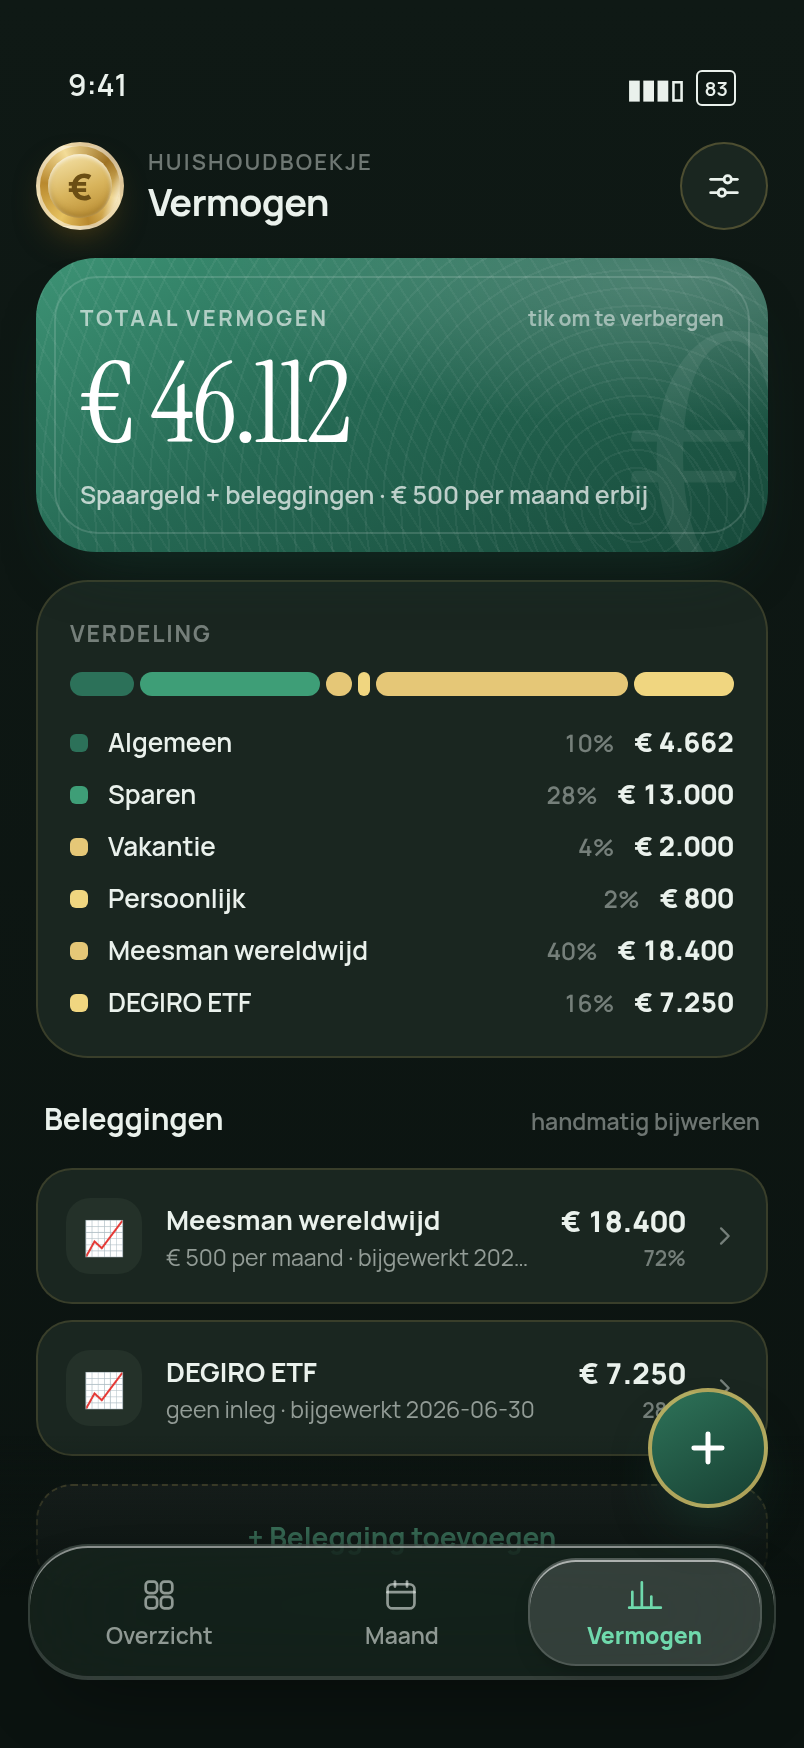
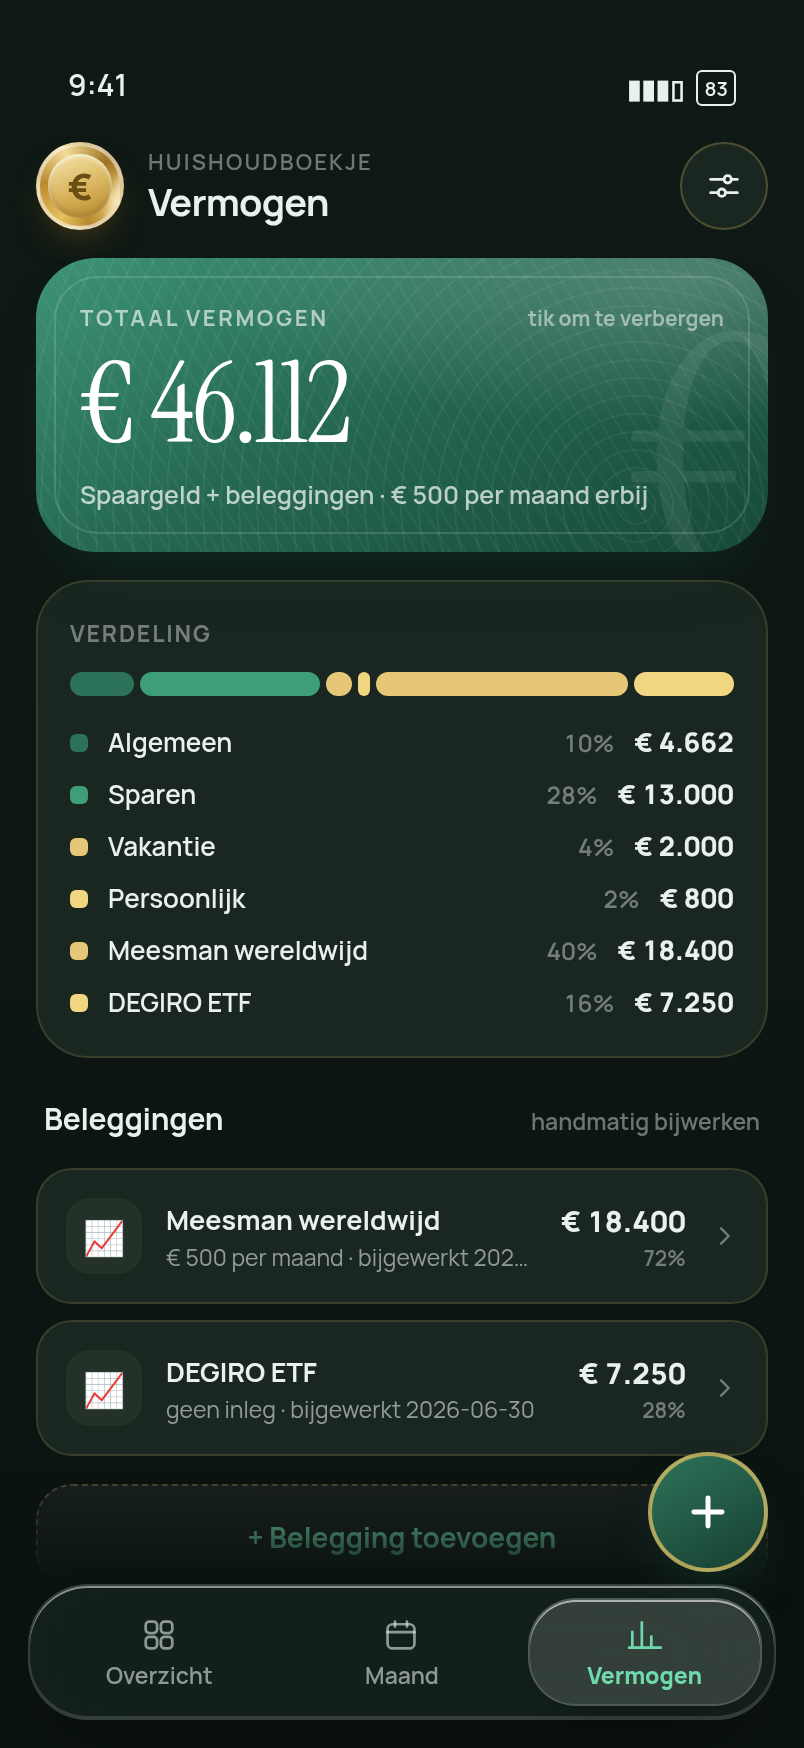
Tabbar in een dock onderaan de kolom i.p.v. position:fixed
De balk stond op iOS te hoog en bleef dat na twee marge-correcties. Oorzaak
was de constructie zelf: position:fixed met bottom uit een custom property
waarin env(safe-area-inset-bottom) zat. Die combinatie is op iOS-standalone
niet betrouwbaar. In plaats van de marge te blijven tunen is de afhankelijk-
heid nu weg:

- Nieuwe .dock als normaal (flex: none) element onderaan de app-kolom, met
  daarin de FAB, het snelmenu, de toast en de tabbar. De balk zit daarmee per
  definitie tegen de onderrand, ongeacht wat iOS over het viewport meldt.
- De veilige zone staat als max(14px, env(...)) in een gewone padding-
  declaratie op .dock — niet in een custom property, want dat is precies de
  constructie die faalde.
- FAB, snelmenu en toast zijn absoluut gepositioneerd ten opzichte van de
  dock, dus hun onderlinge afstanden kunnen niet meer uit de pas lopen.
- De aparte .fade-bottom is vervangen door .dock::before; de dock heeft zelf
  een dekkende achtergrond, dus er kan geen inhoud meer door de onderste
  strook scrollen.
- .scroll heeft geen enorme padding-bottom meer nodig (26px i.p.v. ~166px).
- #quick-scrim naar z-index 19, onder de dock, zodat het snelmenu bereikbaar
  blijft; het sheet-scrim (30) hoort er juist bovenop.

Nagemeten met nagebootste veilige zones: balk 34px van de onderrand op een
iPhone (exact de home-indicator-grens) en 14px op een toestel zonder veilige
zone. Beide testsuites groen: 76/76 interacties, geen console-fouten.

Changed region(s): [[0.0622, 0.7723, 0.9639, 0.9886], [0.0311, 0.8959, 0.0622, 0.9577]]

diff --git a/styles.css b/styles.css
@@ -59,8 +59,6 @@
      home-indicator (env), elders houdt max() een nette marge. Alles wat
      onderaan zweeft rekent hiervan af, zodat de onderlinge afstanden
      kloppen op elk toestel. */
-  --barbottom: max(14px, env(safe-area-inset-bottom));
-  --barheight: 66px;
   /* Transparante variant van --app1 voor de fade onderaan. Met `transparent`
      krijg je in sommige browsers een grijze zweem, daarom expliciet. */
   --app1-0: rgba(246, 241, 227, 0);
@@ -186,6 +184,7 @@ a:hover { color: var(--gold); }
   flex-direction: column;
   background: linear-gradient(180deg, var(--app0) 0%, var(--app1) 100%);
   padding-top: env(safe-area-inset-top);
+  overflow: hidden;
 }
 @media (min-width: 560px) {
   body { background: var(--desk); }
@@ -270,7 +269,7 @@ a:hover { color: var(--gold); }
   min-height: 0;
   overflow-y: auto;
   overflow-x: hidden;
-  padding: 2px var(--pad) calc(var(--barbottom) + var(--barheight) + 96px);
+  padding: 2px var(--pad) 26px;
   -webkit-overflow-scrolling: touch;
 }
 .view { display: flex; flex-direction: column; gap: 14px; animation: riseIn 0.32s var(--ease); }
@@ -872,20 +871,34 @@ a:hover { color: var(--gold); }
 /* ============================================================
    FAB · tabbar · snelmenu
    ============================================================ */
-/* Loopt door tot de onderrand en wordt volledig dekkend, zodat er geen
-   inhoud doorheen scrolt in de strook onder de tabbar (de veilige zone). */
-.fade-bottom {
-  position: fixed;
+/* ---------- Dock onderaan (normaal element, geen position:fixed) ---------- */
+.dock {
+  flex: none;
+  position: relative;
+  z-index: 20;
+  /* De veilige zone ís de onderrand: op iOS eindigt de balk daarmee precies
+     op de home-indicator, elders houdt max() 14px marge. env() staat hier in
+     een gewone padding-declaratie, niet in een custom property — dat laatste
+     is de constructie die op iOS onbetrouwbaar bleek. */
+  padding: 0 14px max(14px, env(safe-area-inset-bottom));
+  background: var(--app1);
+}
+/* Zachte overgang boven de dock, zodat inhoud niet hard afbreekt */
+.dock::before {
+  content: "";
+  position: absolute;
   left: 0;
   right: 0;
-  bottom: 0;
-  height: calc(var(--barbottom) + var(--barheight) + 56px);
+  bottom: 100%;
+  height: 56px;
+  background: linear-gradient(180deg, var(--app1-0), var(--app1));
   pointer-events: none;
-  background: linear-gradient(180deg, var(--app1-0) 0%, var(--app1) 52%, var(--app1) 100%);
-  z-index: 9;
 }
+
 .fab {
-  position: fixed;
+  position: absolute;
+  right: 18px;
+  bottom: calc(100% + 6px);
   width: 60px;
   height: 60px;
   border-radius: 50%;
@@ -894,28 +907,16 @@ a:hover { color: var(--gold); }
   box-shadow: 0 14px 26px -10px rgba(23, 63, 50, 0.75);
   display: grid;
   place-items: center;
-  z-index: 20;
-  bottom: calc(var(--barbottom) + var(--barheight) + 20px);
-  left: 50%;
-  transform: translateX(calc(var(--maxw) / 2 - 60px - var(--pad) + 2px));
   transition: transform 0.14s var(--ease);
 }
-@media (max-width: 520px) {
-  .fab { left: auto; right: var(--pad); transform: none; }
-}
-.fab:active { transform: scale(0.92) translateX(0); }
-@media (min-width: 521px) { .fab:active { transform: translateX(calc(var(--maxw) / 2 - 60px - var(--pad) + 2px)) scale(0.92); } }
+.fab:active { transform: scale(0.92); }
 .fab svg { display: block; }
 
 .tabbar {
-  position: fixed;
-  left: 50%;
-  transform: translateX(-50%);
-  bottom: var(--barbottom);
-  width: min(calc(var(--maxw) - 28px), calc(100vw - 28px));
+  position: relative;
+  width: auto;
   padding: 6px;
   border-radius: 30px;
-  z-index: 10;
   background: var(--glass);
   -webkit-backdrop-filter: blur(30px) saturate(200%);
   backdrop-filter: blur(30px) saturate(200%);
@@ -952,8 +953,11 @@ a:hover { color: var(--gold); }
 }
 
 .quick {
-  position: fixed;
+  position: absolute;
+  right: 18px;
+  bottom: calc(100% + 76px);
   width: 250px;
+  max-width: calc(100% - 36px);
   padding: 8px;
   border-radius: 22px;
   background: var(--sheet);
@@ -964,8 +968,6 @@ a:hover { color: var(--gold); }
   flex-direction: column;
   gap: 4px;
   z-index: 31;
-  bottom: calc(var(--barbottom) + var(--barheight) + 92px);
-  right: max(var(--pad), calc(50vw - var(--maxw) / 2 + var(--pad)));
 }
 .quick[hidden] { display: none; }
 .quick-kicker {
@@ -995,6 +997,9 @@ a:hover { color: var(--gold); }
 /* ============================================================
    Sheets
    ============================================================ */
+/* Het snelmenu leeft in de dock (z-index 20); zijn scrim moet daar dus
+   onder blijven. Het sheet-scrim (30) hoort er juist bovenop. */
+#quick-scrim { z-index: 19; }
 .scrim {
   position: fixed;
   inset: 0;
@@ -1387,12 +1392,10 @@ a:hover { color: var(--gold); }
 
 /* Toast */
 .toast {
-  position: fixed;
-  left: 0;
-  right: 0;
-  margin: 0 auto;
-  width: min(calc(var(--maxw) - 36px), calc(100vw - 36px));
-  bottom: calc(var(--barbottom) + var(--barheight) + 90px);
+  position: absolute;
+  left: 18px;
+  right: 18px;
+  bottom: calc(100% + 76px);
   z-index: 35;
   display: flex;
   align-items: center;

diff --git a/index.html b/index.html
@@ -223,14 +223,29 @@
     </section>
   </div>
 
-  <!-- ==================== FAB · tabbar ==================== -->
-  <div class="fade-bottom" aria-hidden="true"></div>
+  <!-- ==================== Dock: FAB · tabbar · toast · snelmenu ====================
+       Staat als normaal element onderaan de app-kolom, niet position:fixed.
+       Zo zit de balk altijd echt tegen de onderrand, ongeacht hoe iOS de
+       veilige zones en het viewport rapporteert. -->
+  <div class="dock">
+    <button type="button" class="fab" id="fab" aria-label="Toevoegen · houd vast voor snelinvoer">
+      <svg width="26" height="26" viewBox="0 0 24 24" fill="none" stroke="#fff" stroke-width="2.3" stroke-linecap="round" aria-hidden="true"><path d="M12 5.5v13"/><path d="M5.5 12h13"/></svg>
+    </button>
 
-  <button type="button" class="fab" id="fab" aria-label="Toevoegen · houd vast voor snelinvoer">
-    <svg width="26" height="26" viewBox="0 0 24 24" fill="none" stroke="#fff" stroke-width="2.3" stroke-linecap="round" aria-hidden="true"><path d="M12 5.5v13"/><path d="M5.5 12h13"/></svg>
-  </button>
+    <!-- Snelmenu -->
+    <div class="quick" id="quick" hidden>
+      <div class="quick-kicker">Snel toevoegen</div>
+      <div id="quick-items"></div>
+      <button type="button" class="btn" id="quick-all" style="margin-top:4px">Alle opties…</button>
+    </div>
 
-  <nav class="tabbar" aria-label="Weergave">
+    <!-- Toast -->
+    <div class="toast" id="toast" role="status" aria-live="polite" hidden>
+      <div class="toast-text" id="toast-text"></div>
+      <button type="button" id="toast-undo">Ongedaan maken</button>
+    </div>
+
+    <nav class="tabbar" aria-label="Weergave">
     <button type="button" class="tab" data-tab="overzicht" aria-current="page">
       <svg width="19" height="19" viewBox="0 0 24 24" fill="none" stroke="currentColor" stroke-width="1.7" stroke-linecap="round" stroke-linejoin="round" aria-hidden="true"><rect x="3.6" y="3.6" width="7.2" height="7.2" rx="2.2"/><rect x="13.2" y="3.6" width="7.2" height="7.2" rx="2.2"/><rect x="3.6" y="13.2" width="7.2" height="7.2" rx="2.2"/><rect x="13.2" y="13.2" width="7.2" height="7.2" rx="2.2"/></svg>
       Overzicht
@@ -243,15 +258,10 @@
       <svg width="19" height="19" viewBox="0 0 24 24" fill="none" stroke="currentColor" stroke-width="1.7" stroke-linecap="round" stroke-linejoin="round" aria-hidden="true"><path d="M4 20V10M10 20V4M16 20v-7M22 20H2"/></svg>
       Vermogen
     </button>
-  </nav>
-
-  <!-- ==================== Snelmenu ==================== -->
-  <div class="scrim" id="quick-scrim" hidden></div>
-  <div class="quick" id="quick" hidden>
-    <div class="quick-kicker">Snel toevoegen</div>
-    <div id="quick-items"></div>
-    <button type="button" class="btn" id="quick-all" style="margin-top:4px">Alle opties…</button>
+    </nav>
   </div>
+
+  <div class="scrim" id="quick-scrim" hidden></div>
 
   <!-- ==================== Sheets ==================== -->
   <div class="scrim" id="scrim" hidden></div>
@@ -470,12 +480,6 @@
         <button type="button" class="ghost" data-close>Annuleer</button>
       </div>
     </div>
-  </div>
-
-  <!-- Toast -->
-  <div class="toast" id="toast" role="status" aria-live="polite" hidden>
-    <div class="toast-text" id="toast-text"></div>
-    <button type="button" id="toast-undo">Ongedaan maken</button>
   </div>
 
   <!-- Confetti -->
